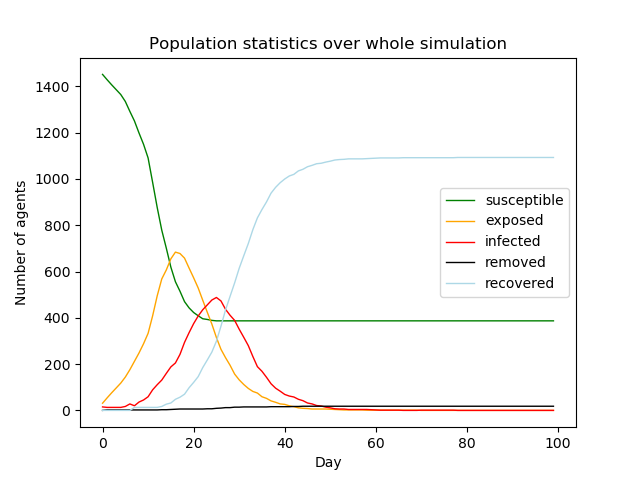
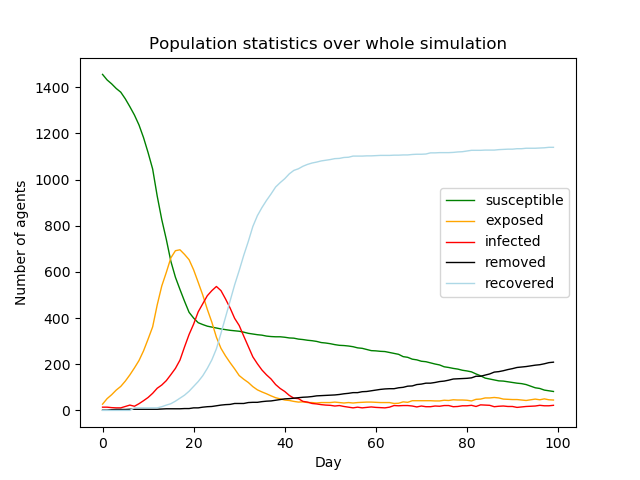
Corrected simulations

diff --git a/launchModel.py b/launchModel.py
@@ -15,10 +15,10 @@ AGENTS = 1500  # desired agents the model will have
 INIT_INFECTED = 15  # number of agents infected at the beggining of the simulation
 
 # proportion of agents wearing a mask {'all', 'most', 'half', 'few', 'none'}
-MASKCHANCE = 'all'
+MASKCHANCE = 'half'
 
 # choose how strict the lockdown is taken into account for each agegroup
-SETTINGS = [False, 'severe', 'severe', 'severe', 'severe']
+SETTINGS = [False, 'none', 'none', 'none', 'none']
 # choose restrictions as follows: {'none','minimal','moderate','severe,'total'}
 # index0 = whether school is out or not
 # index1 = restrictions for children
